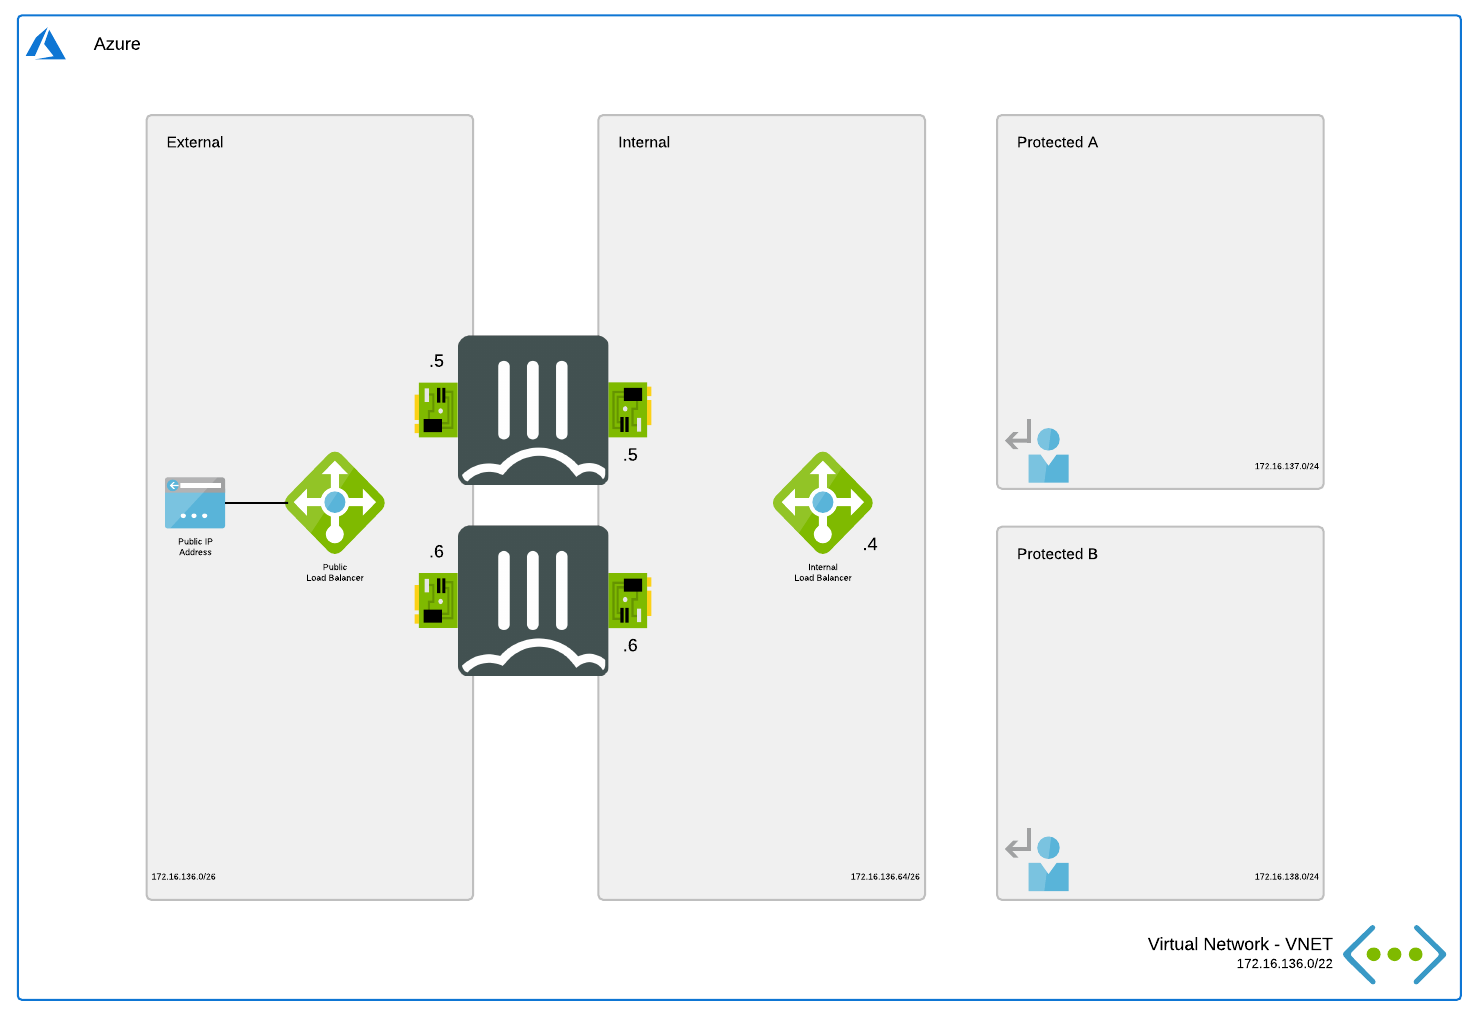
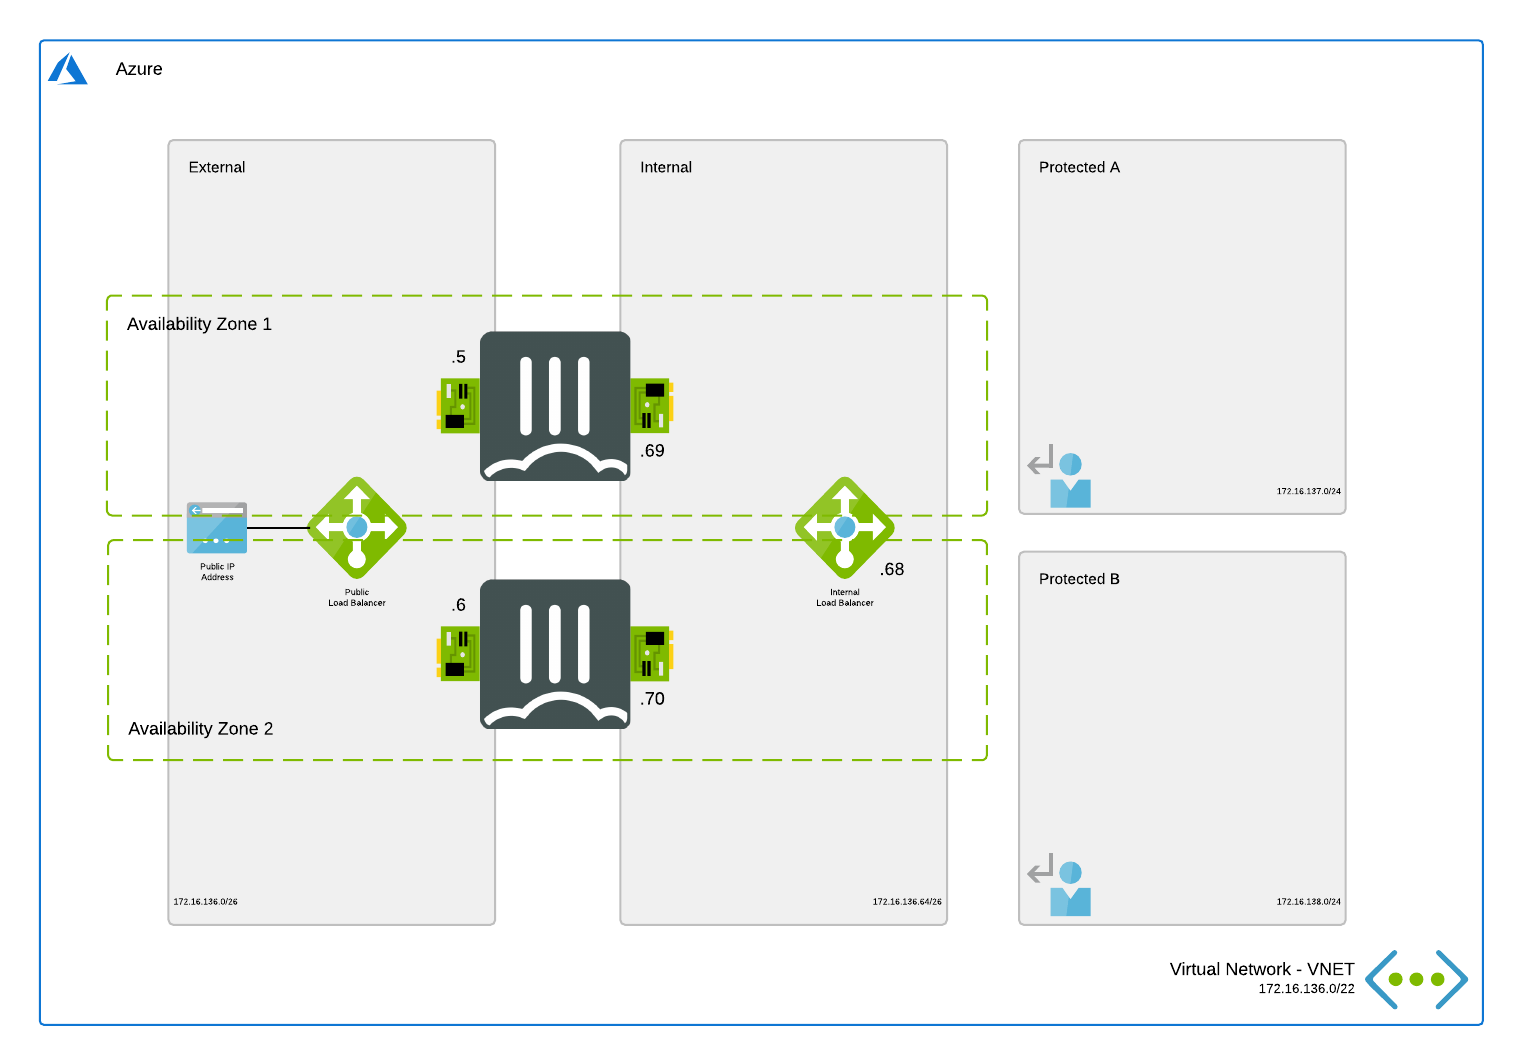
Added documentation for A/A setup in Availability Zones Aligned deploy scripts Ran terrafom fmt on tf files

diff --git a/FortiGate/AvailabilityZones/Active-Active-ELB-ILB-AZ/README.md b/FortiGate/AvailabilityZones/Active-Active-ELB-ILB-AZ/README.md
@@ -1,27 +1,16 @@
-# Active/Active loadbalanced pair of standalone FortiGates for resilience and scale
+# Availability Zone - Active/Active loadbalanced pair of standalone FortiGates for resilience and scale
 
 ## Introduction
 
-More and more enterprises are turning to Microsoft Azure to extend or replace internal data centers and take advantage of the elasticity of the public cloud. While Azure secures the infrastructure, you are responsible for protecting the resources you put in it. As workloads are being moved from local data centers connectivity and security are key elements to take into account. FortiGate-VM offers a consistent security posture and protects connectivity across public and private clouds, while high-speed VPN connections protect data.
-
-This Azure ARM template deploys an Active/Active pair combined with the Microsoft Azure Standard Load Balancer both on the external and the internal side. Additionally, Fortinet Fabric Connectors deliver the ability to create dynamic security policies.
+This design operates almost exactly the same as the more common variant using Availability Sets that can be found [here](../Active-Active-ELB-ILB). The main difference between both is that this uses Availability Zones vs the Availability Sets.
 
 ## Design
 
-In Microsoft Azure, you can deploy an active/active pair of FortiGate VMs that communicate with each other and the Azure fabric. This FortiGate setup will receive the to be inspected traffic using user defined routing (UDR) and public IPs. You can send all or specific traffic that needs inspection, going to/coming from on-prem networks or public internet by adapting the UDR routing.
-
-This Azure ARM template will automatically deploy a full working environment containing the the following components.
-
-  - 2 FortiGate firewalls in an active/active deployment
-  - 1 external Azure Standard Load Balancer for communication with internet
-  - 1 internal Azure Standard Load Balancer to receive all internal traffic and forwarding towards Azure Gateways connecting ExpressRoute or Azure VPNs.
-  - 1 VNET with 2 protected subnets
-  - 1 public IP for services and FortiGate management
-  - User Defined Routes (UDR) for the protected subnets
+VMs running in Azure in Availability Zones have a better SLA provided by the platform. Each individual VM in this setup as a 99.99% uptime SLA compared to 99.95% for the VMs running in a Availability Set. A cluster of FortiGates will have a cross region/paralle; SLA of 99,999999%. More information about the uptime of the Azure datacenter can be found on [this blog post](https://kvaes.wordpress.com/2020/02/16/is-azure-a-tier-3-datacenter-and-what-about-service-levels-in-a-broader-sense/). FortiGate A will be deployed in Zone 1. FortiGate B will deployed in Zone 2. The template can off course be changed to use other zones.
 
 ![active/active design](images/fgt-aa.png)
 
-This ARM template can also be used to extend or customized based on your requirements. Additional subnets besides the one's mentioned above are not automatically generated. By adapting the ARM templates you can add additional subnets which prefereably require their own routing tables.
+This ARM template can also be used to extend or customized based on your requirements. Additional subnets besides the one's mentioned above are not automatically generated. By adapting the ARM templates you can add additional subnets which preferably require their own routing tables.
 
 ## How to deploy
 
@@ -33,7 +22,7 @@ The FortiGate solution can be deployed using the Azure Portal or Azure CLI. Ther
   - PASSWORD : The password used for the FortiGate GUI and SSH management UI.
 
 ### Azure Portal
-Z
+
 <a href="https://portal.azure.com/#create/Microsoft.Template/uri/https%3A%2F%2Fraw.githubusercontent.com%2Fjvhoof%2Ffortinet-azure-solutions%2Fmaster%2FFortiGate%2FAvailabilityZones%2FActive-Active-ELB-ILB-AZ%2Fazuredeploy.json" target="_blank">
   <img src="https://raw.githubusercontent.com/Azure/azure-quickstart-templates/master/1-CONTRIBUTION-GUIDE/images/deploytoazure.svg?sanitize=true"/>
 </a>
@@ -48,7 +37,7 @@ To deploy via Azure Cloud Shell you can connect via the Azure Portal or directly
 - Login into the Azure Cloud Shell
 - Run the following command in the Azure Cloud:
 
-`cd ~/clouddrive/ && wget -qO- https://github.com/jvhoof/fortinet-azure-solutions/archive/master.zip | jar x && cd ~/clouddrive/fortinet-azure-solutions/FortiGate/Active-Active-ELB-ILB/ && ./deploy.sh`
+`cd ~/clouddrive/ && wget -qO- https://github.com/jvhoof/fortinet-azure-solutions/archive/master.zip | jar x && cd ~/clouddrive/fortinet-azure-solutions/FortiGate/AvailabilityZones/Active-Active-ELB-ILB-AZ/ && ./deploy.sh`
 
 - The script will ask you a few questions to bootstrap a full deployment.
 
@@ -58,67 +47,7 @@ After deployment you will be shown the IP address of all deployed components. Yo
 
 ## Requirements and limitations
 
-The Terraform template deployment deploys different resources and is required to have the access rights and quota in your Microsoft Azure subscription to deploy the resources.
-
-### Licenses
-
-- The template will deploy Standard F4s VMs to deploy the required active/active setup. Other VM instances are supported as well with a minimum of 2 NICs. A list can be found [here](https://docs.fortinet.com/document/fortigate/6.2.0/azure-cookbook/562841/instance-type-support)
-- Licenses for Fortigate
-  - BYOL: Demo license can be made available via your Fortinet partner or on our website. These can be injected during deployment or added after deployment.
-  - PAYG or OnDemand: These licenses are automatically generated during the deployment of the FortiGate systems.
-
-### Fabric Connector
-The FortiGate-VM uses [Managed Identities](https://docs.microsoft.com/en-us/azure/active-directory/managed-identities-azure-resources/) for the SDN Fabric Connector. A SDN Fabric Connector is created automatically during deployment. After deployment, it is required apply the 'Reader' role to Azure Subscription you want the FortiGate-VM(s) to resolve Azure Resources from. More information can be found on the [Fortinet Documentation Libary](https://docs.fortinet.com/vm/azure/fortigate/6.2/azure-cookbook/6.2.0/236610/creating-a-fabric-connector-using-a-managed-identity).
-
-### North South traffic
-When configuring the policies on the FortiGates to allow and forward traffic to internal hosts, it is recommended that you enable the NAT checkbox (this will S-NAT the packets to the IP of port2). Doing so will enforce symmetric return.
-
-It is possible to use FGSP to synchronize sessions and thereby allow assymetric return traffic. However this is not best practice from a security perspective, because it limits the ability of IPS by potentially only seeing one side of the conversation on each FGT. The FortiGate IPS takes both sides of the conversation into account for increased security and visibility. Reducing this visibility on the FortiGate may decrease the IPS efficacy.
-
-Often S-NAT is not desired because it's necessary to retain the original source IP. For HTTP or HTTPS traffic in particular, you can enable the Load Balancing feature on the FortiGate which gives you the option to copy the source IP into the X-Forwarded-For header (See https://docs.fortinet.com/uploaded/files/3637/fortigate-load-balancing-56.pdf)
-
-If you do prefer to use FGSP for session synchronization. It can be enable during deployment by uncommenting the section in the customdata.tpl file or adding this recomended configuration to both FortiGate VMs.
-
-```
-config system ha
-    set session-pickup enable
-    set session-pickup-connectionless enable
-    set session-pickup-nat enable
-    set session-pickup-expectation enable
-    set override disable
-end
-
-config system cluster-sync
-    edit 0
-        set peerip 10.0.1.x
-        set syncvd "root"
-    next
-end
-```
-* Where x in 10.0.1.x is the IP of port 1 of the opposite FortiGate. With the default values this would be either 5 or 6.
-
-### Configuration synchronization
-The FortiGate VMs are in this Active/Active setup independent units. They don't use FGCP as a protocol to sync the configuration like in the Active/Passive setup. To enable configuration sync between both unit the sync from the autoscaling setup can be used. This will sync all configuration except for the specific configuration item proper to the specific VM like hostname, routing and others. To enable the configuration sync the config below can be used on both
-
-FortiGate A
-```
-config system auto-scale
-    set status enable
-    set role master
-    set sync-interface "port2"
-    set psksecret "a big secret"
-end
-```
-
-FortiGate B
-```
-config system auto-scale
-    set status enable
-    set sync-interface "port2"
-    set master-ip 172.16.136.69
-    set psksecret "a big secret"
-end
-```
+More documentation can be found on [the Availability Set version of this template](../Active-Active-ELB-ILB/README.md).
 
 ## Support
 Fortinet-provided scripts in this and other GitHub projects do not fall under the regular Fortinet technical support scope and are not supported by FortiCare Support Services.
